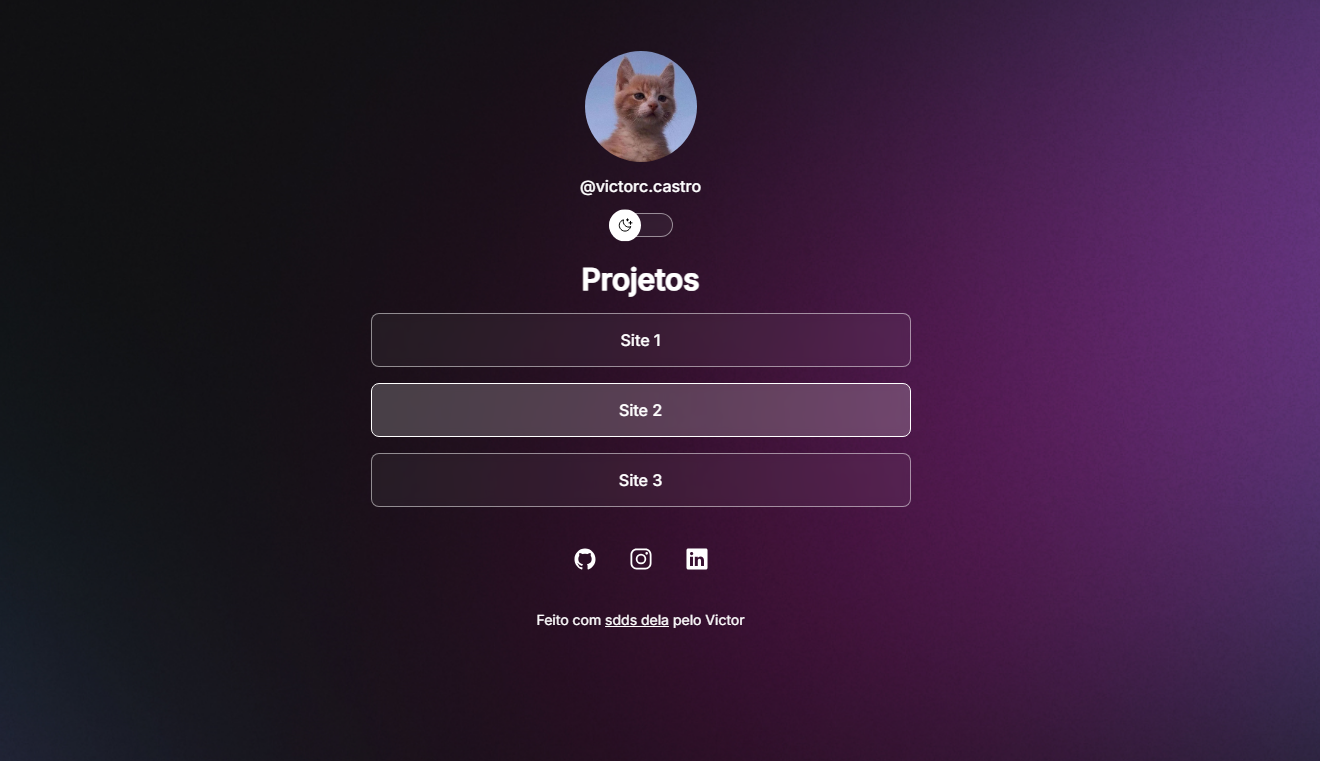
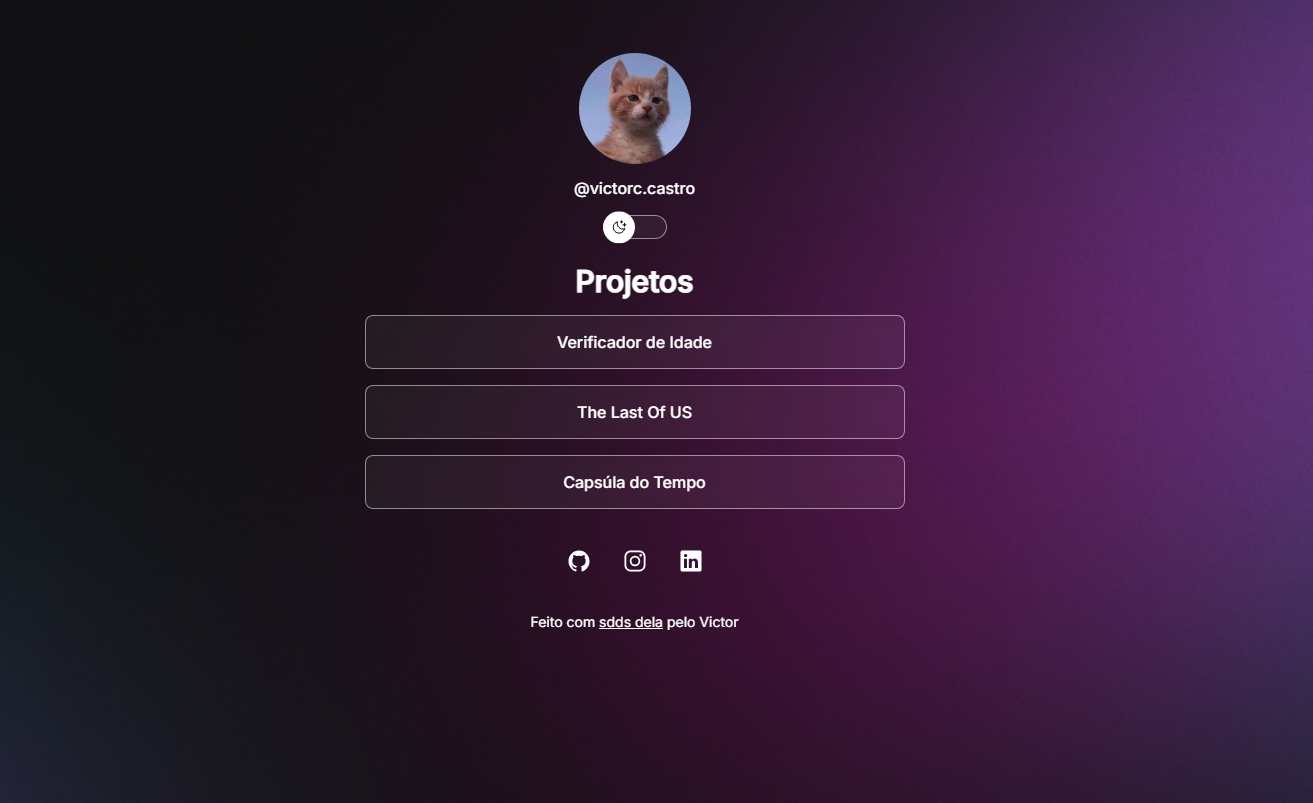
Re atualizando o README

Changed region(s): [[0.281, 0.0604, 0.7182, 0.8463], [0.281, 0.6045, 0.3123, 0.6347], [0.281, 0.3929, 0.3123, 0.4231]]

diff --git a/index.html b/index.html
@@ -38,17 +38,17 @@
         </div>
         <ul>
             <h3>Projetos</h3>
-            
+
             <li>
-                <a href="https://victorc-castro.github.io/verificador-de-idade/" target="_blank">Site 1</a>
+                <a href="https://victorc-castro.github.io/verificador-de-idade/" target="_blank">Verificador de Idade</a>
             </li>
 
             <li>
-                <a href="https://victorc-castro.github.io/projeto-the-last-of-us/" target="_blank">Site 2</a>
+                <a href="https://victorc-castro.github.io/projeto-the-last-of-us/" target="_blank">The Last Of US</a>
             </li>
 
             <li>
-                <a href="https://victorc-castro.github.io/nlw-spacetime/" target="_blank">Site 3</a>
+                <a href="https://victorc-castro.github.io/nlw-spacetime/" target="_blank">Capsúla do Tempo</a>
             </li>
         </ul>
 
